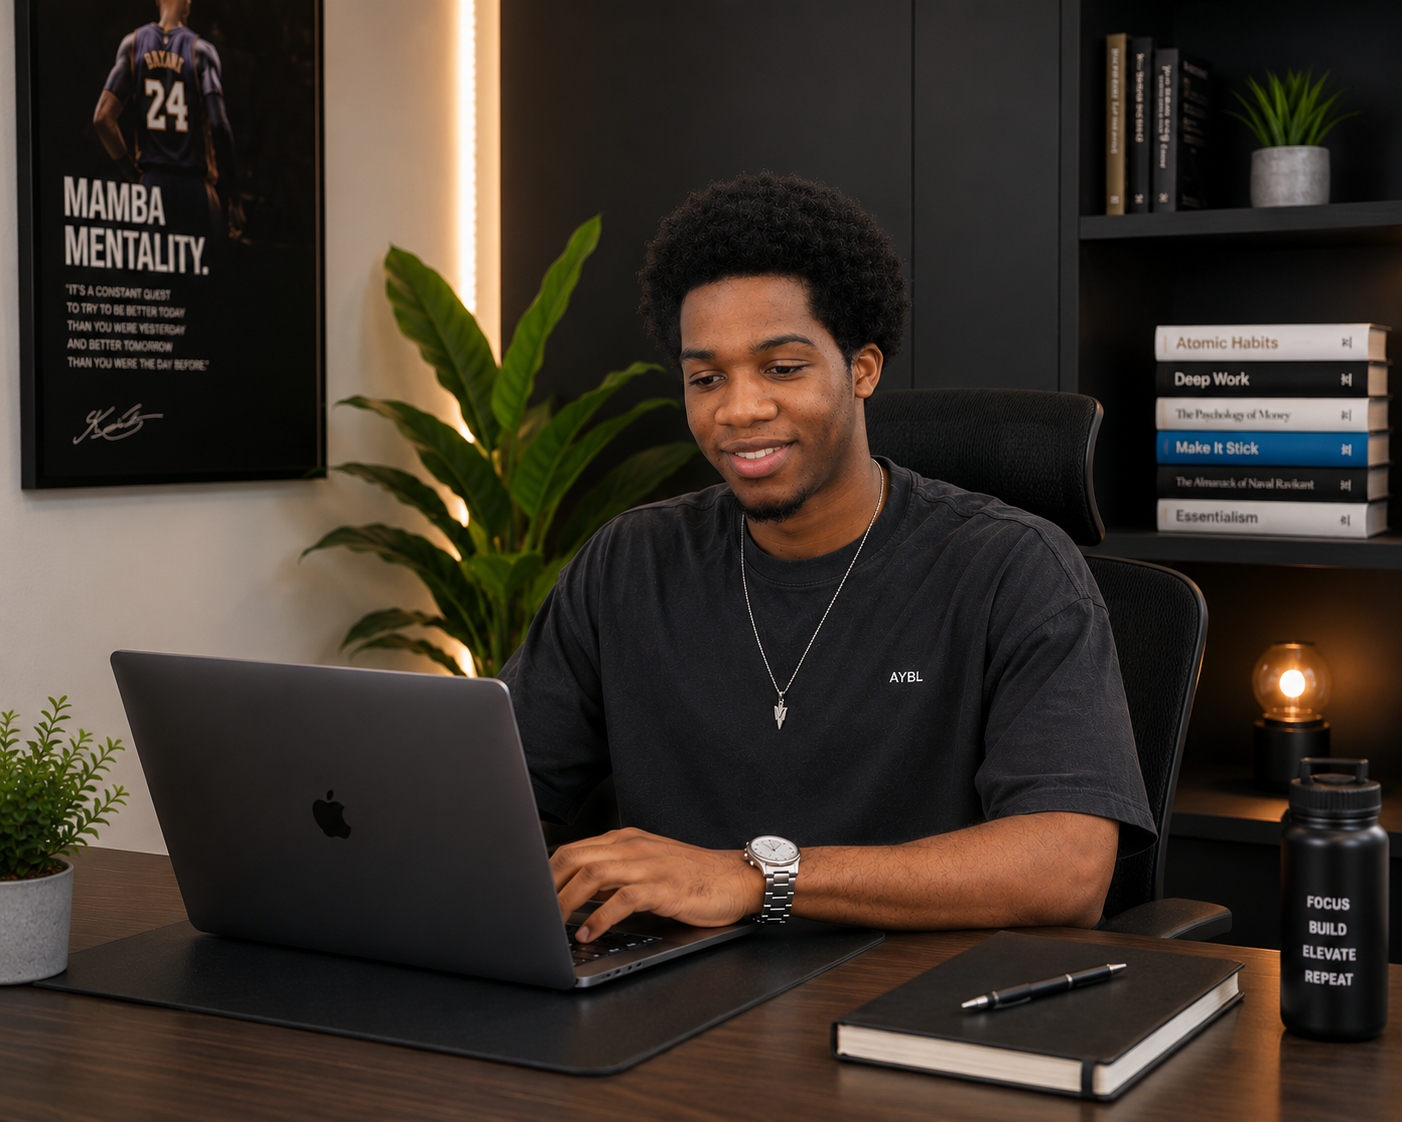
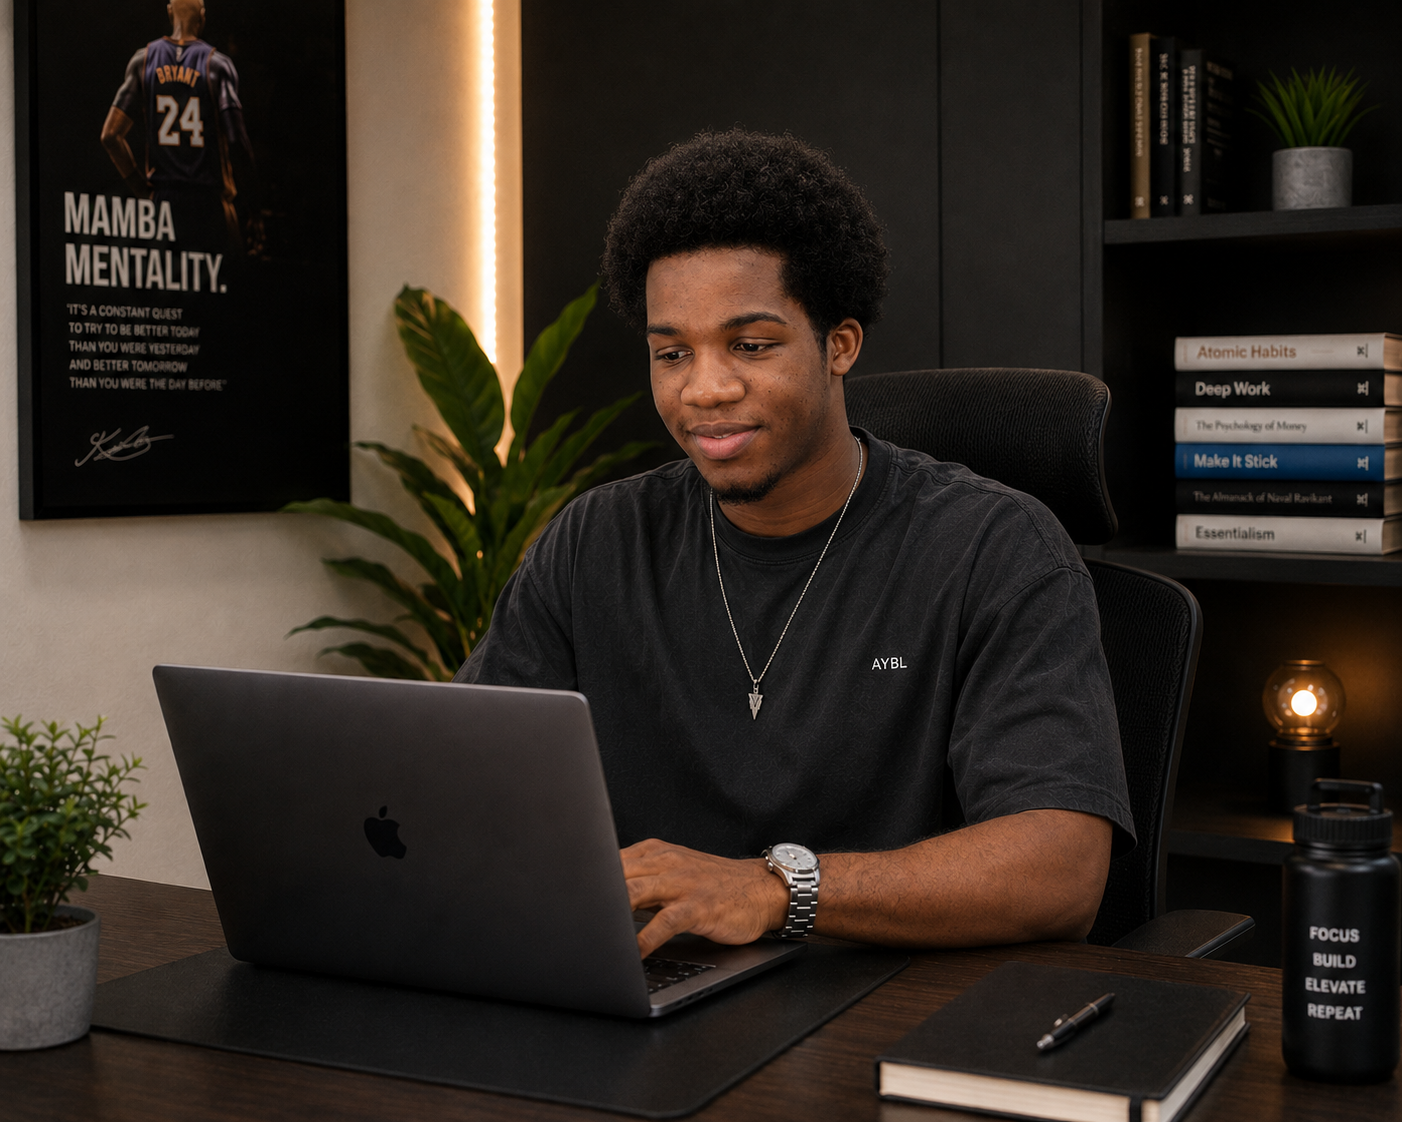
changed the hero image

diff --git a/src/components/Hero.tsx b/src/components/Hero.tsx
@@ -1,5 +1,5 @@
-import { FiDownload, FiMail } from "react-icons/fi";
-
+import { FiMail } from "react-icons/fi";
+// FiDownload
 export default function Hero() {
   return (
     <header className="hero" id="home">